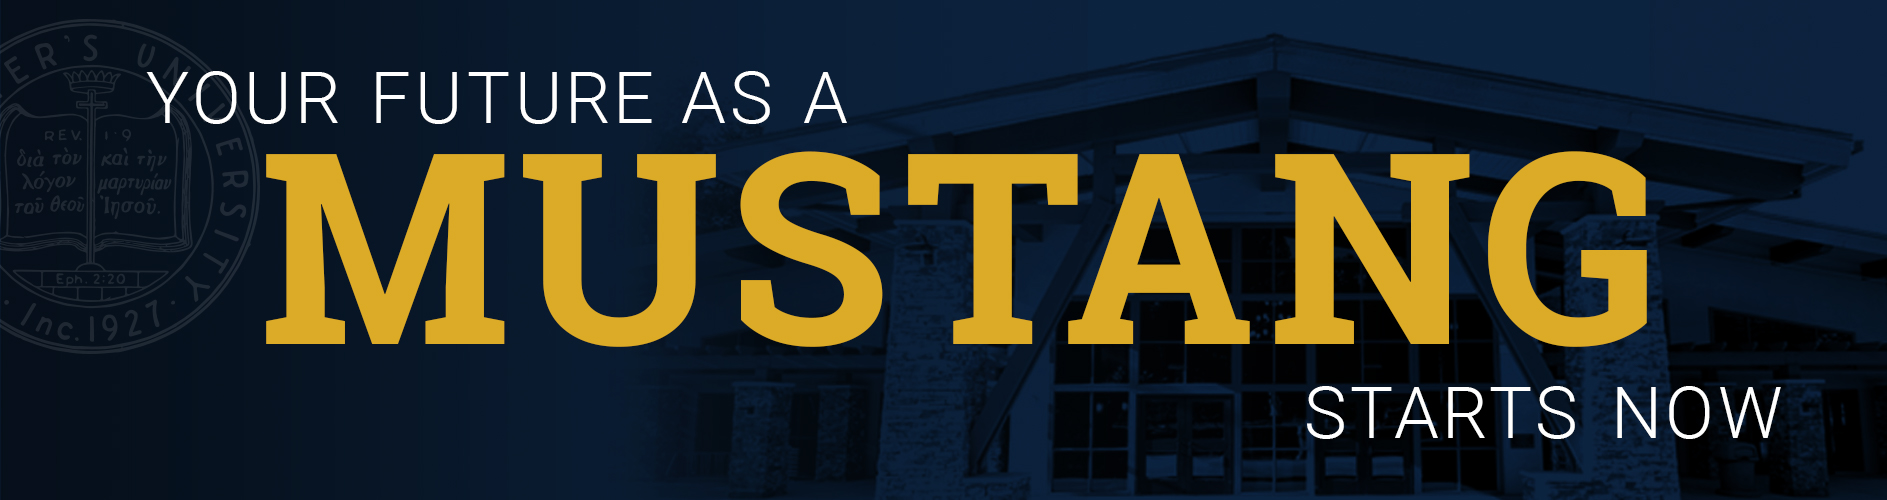
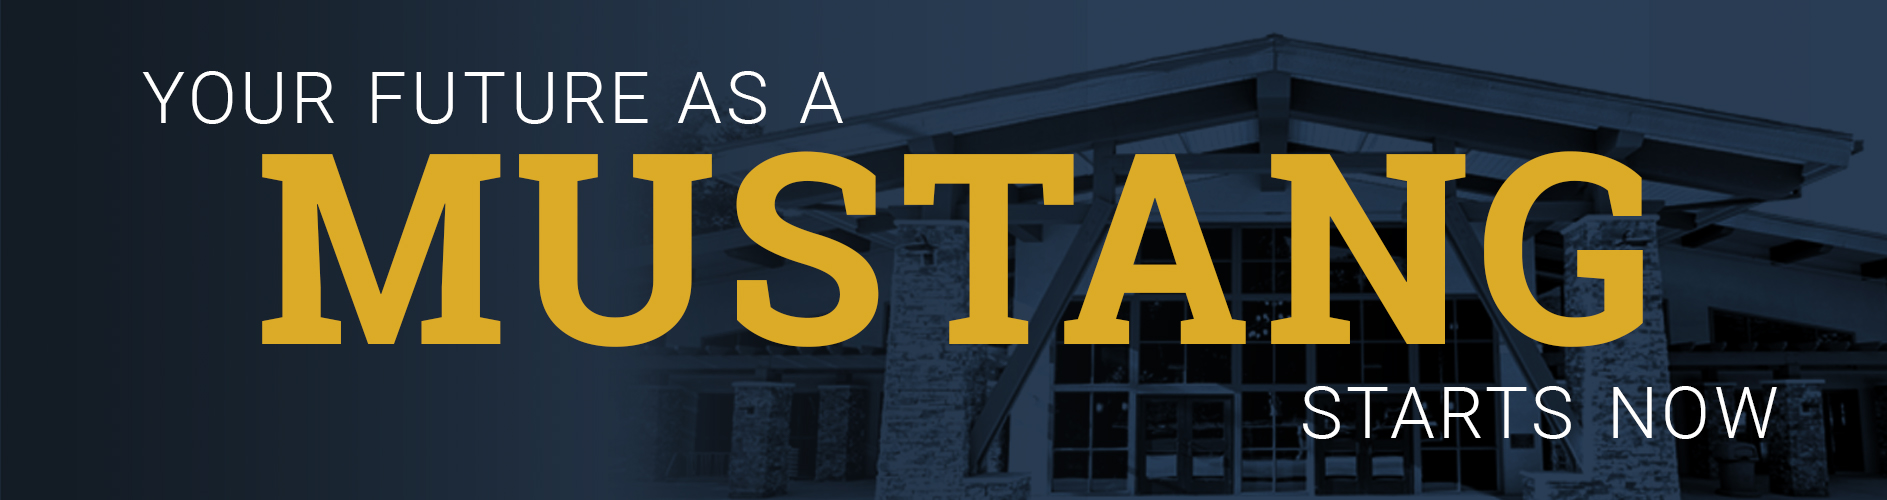
ui tweaks

diff --git a/_admissions/graduate.md b/_admissions/graduate.md
@@ -3,7 +3,7 @@ title: Graduate
 position: 1
 ---
 
-<img src="{{ "/images/Grad.jpg" | prepend: site.url }}" alt="" width="100%">
+<img src="{{ "/images/Grad_1920x500.jpg" | prepend: site.url }}" alt="" width="100%">
 <div class="row">
 <div class="col s12 m4 l3 right admissions-btns">
 <a href="https://mastersuniversity.force.com/application/TX_SiteLogin?startURL=%2Fapplication%2FTargetX_Portal__PB" class="btn btn-navy">Apply Now</a><br>
